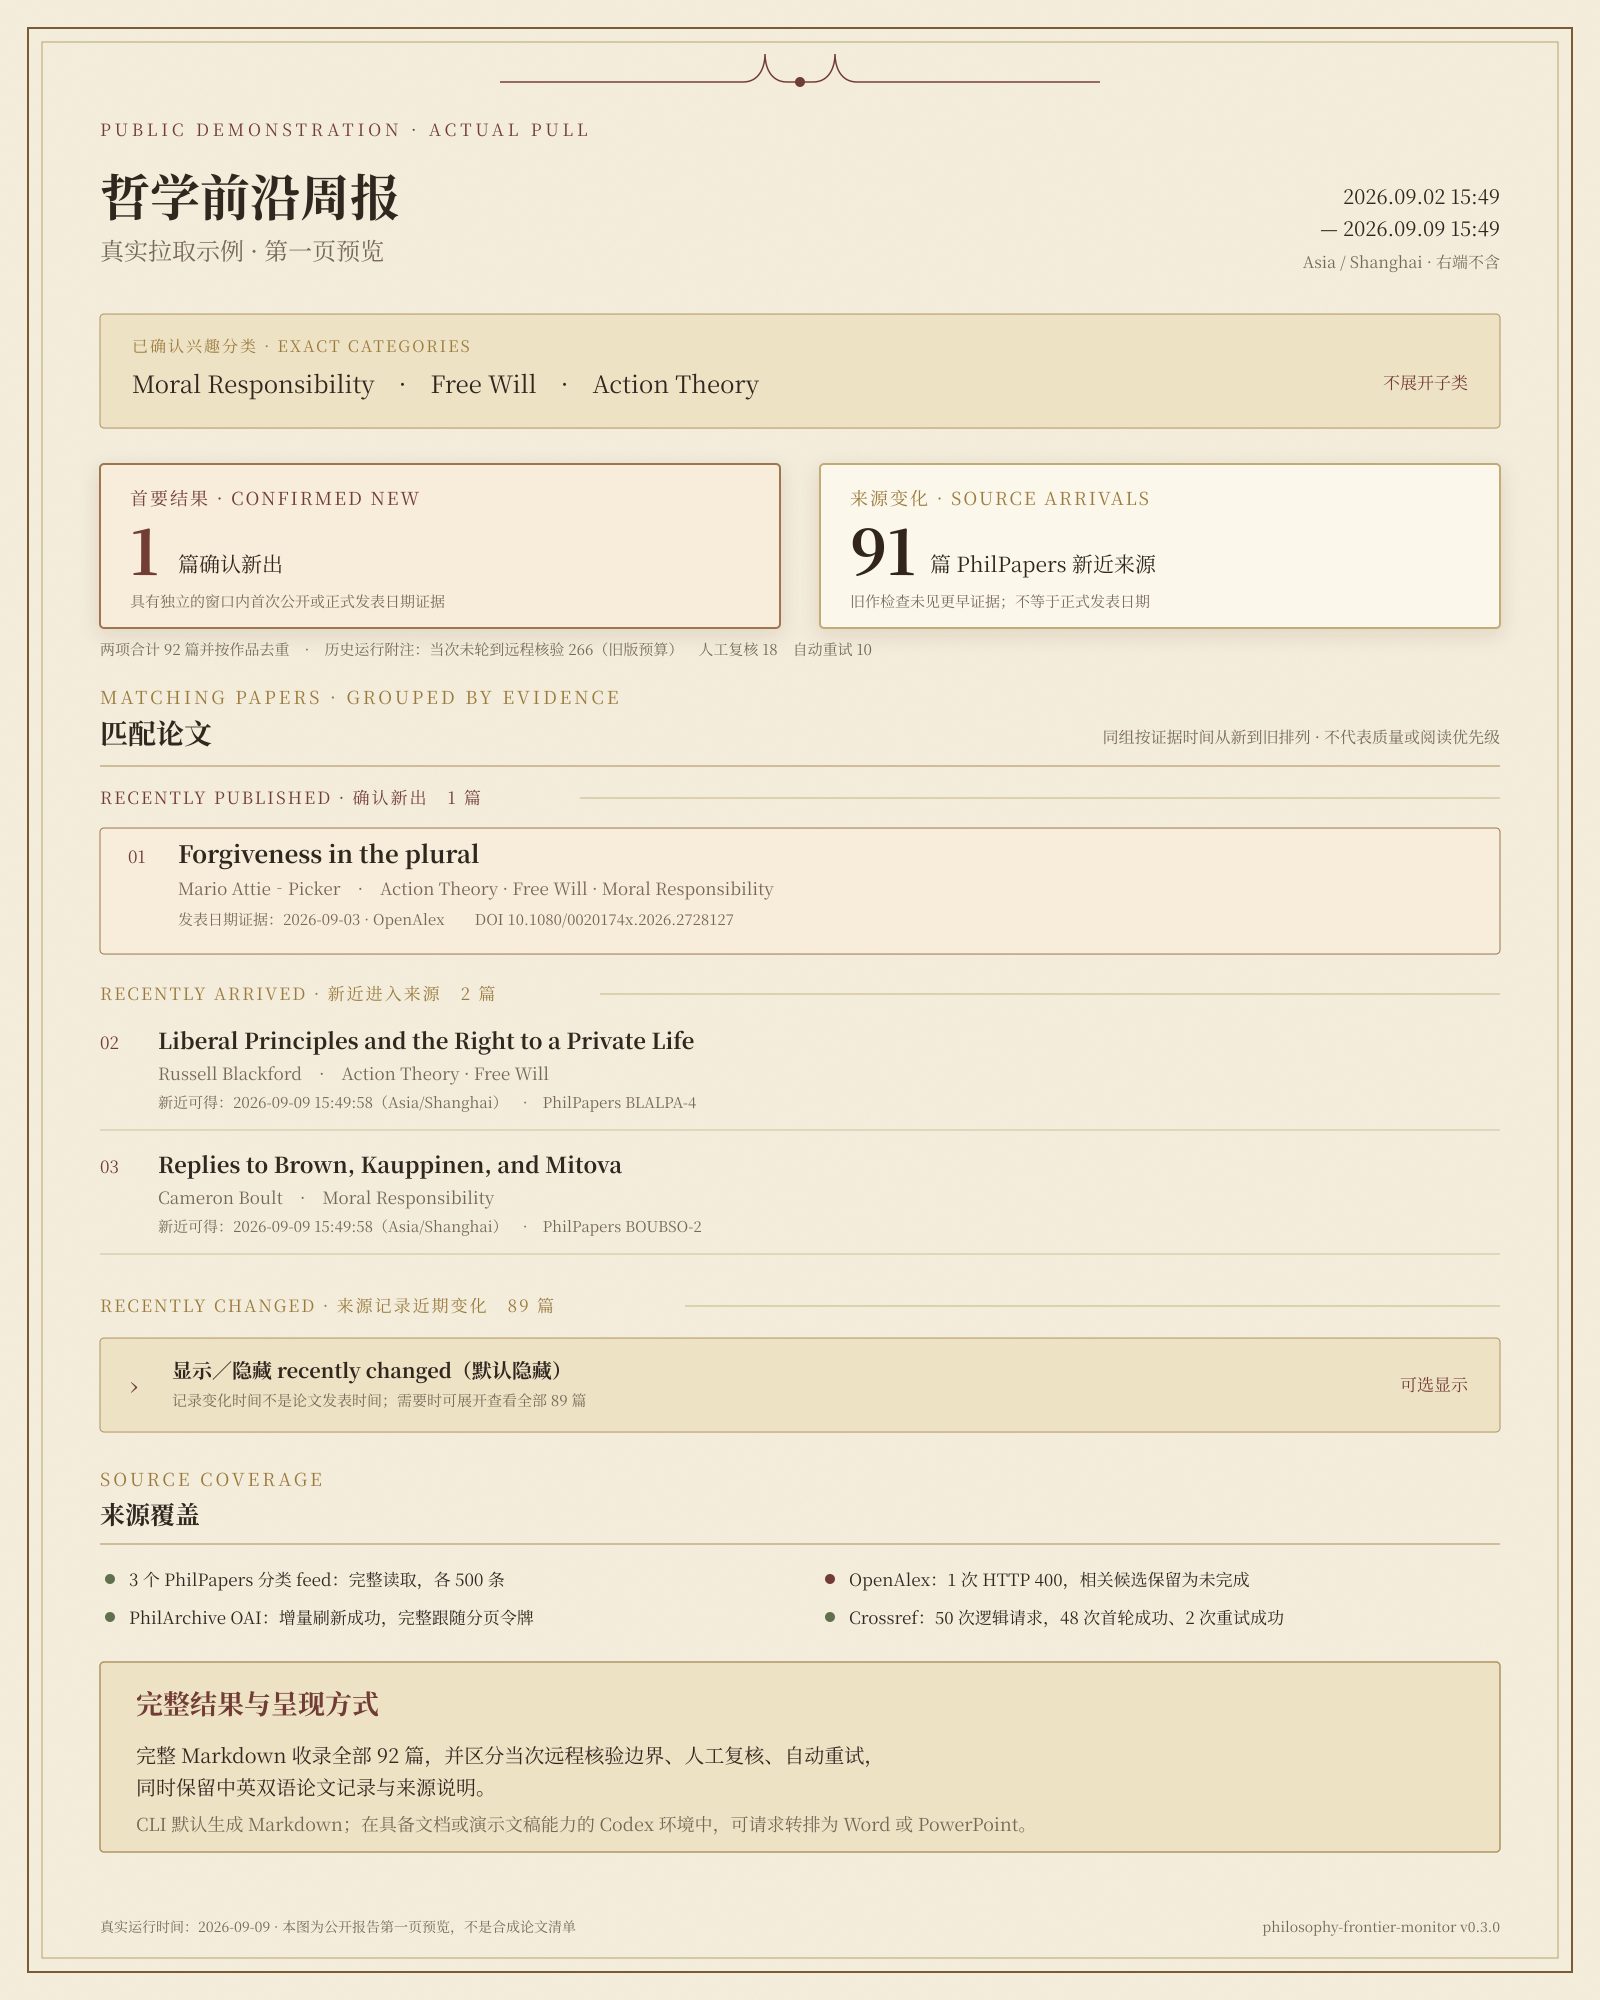
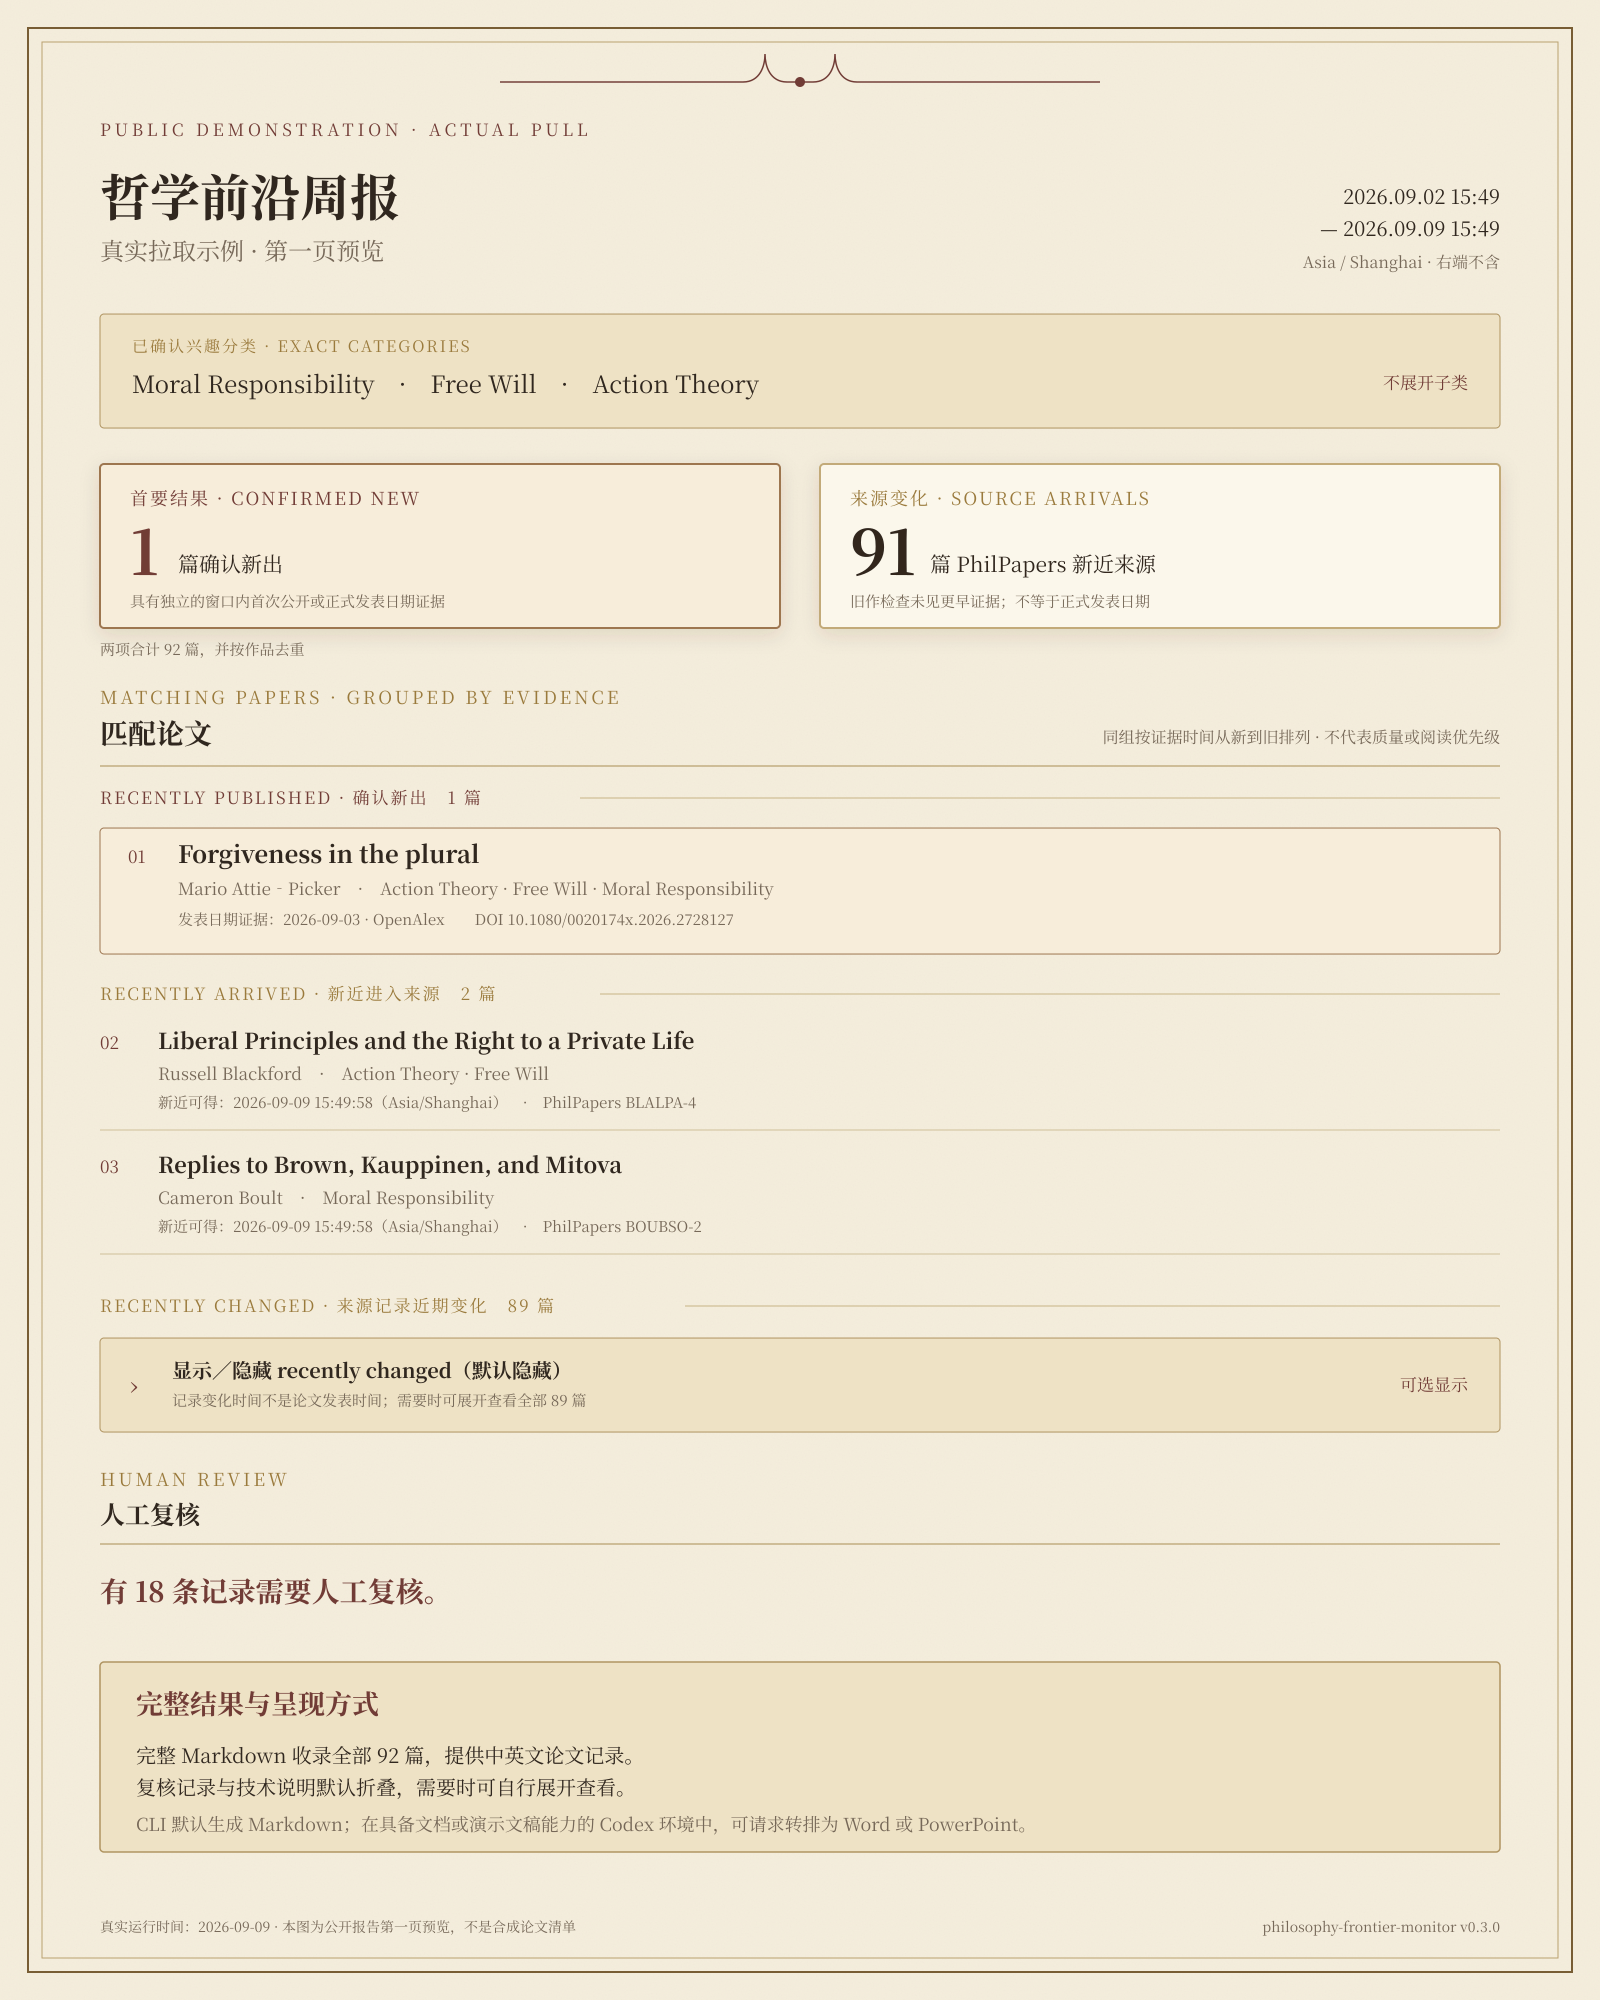
Simplify public demo review notice and make technical details optional

diff --git a/examples/public-demo-weekly-report.md b/examples/public-demo-weekly-report.md
@@ -9,8 +9,6 @@ taxonomy 快照：`philpapers:20260905T130303Z:e2538657e2ce`
 
 本报告由用户主动请求生成，独立于正式周报。它不读取周报通知历史，也不写入或推进基线、重试队列、运行历史和 feed 检查点；同一篇论文以后再次出现在周报中属于正常现象。
 
-本次启用了 PhilArchive OAI 增量筛选：完全没有 feed 时间和书目年份的记录只有在同一 `/rec/` 记录于窗口内发生变化时才继续核验。OAI 只覆盖开放记录，因此非开放且完全无日期的 PhilPapers 记录可能不在本次即时报告中；这不是永久的旧作判断。
-
 ## 本次结果概览
 
 ### 确认新出：1 篇
@@ -21,7 +19,7 @@ taxonomy 快照：`philpapers:20260905T130303Z:e2538657e2ce`
 
 这些记录新近进入所选分类对应的 PhilPapers／PhilArchive 来源变化集合，而且当次旧作检查没有发现更早作品证据；这不等于已经取得正式发表日期。
 
-以上两项由下方 92 条真实拉取记录的 `freshness_status`／`freshness_event` 逐项统计，不增补论文，也不是模型合成的数量。本次未轮到远程核验的候选、人工复核、自动重试和来源故障仍在报告后部完整披露。
+以上两项由下方 92 条真实拉取记录的 `freshness_status`／`freshness_event` 逐项统计，不增补论文，也不是模型合成的数量。另有 **18 条记录需要人工复核**；复核记录与技术说明可在报告后部自行展开查看。
 
 ## 匹配论文（92）
 
@@ -1334,6 +1332,15 @@ taxonomy 快照：`philpapers:20260905T130303Z:e2538657e2ce`
 
 </details>
 
+## 人工复核
+
+有 **18 条记录需要人工复核**。
+
+<details>
+<summary>查看复核记录与技术说明（可选）</summary>
+
+本次启用了 PhilArchive OAI 增量筛选：完全没有 feed 时间和书目年份的记录只有在同一 `/rec/` 记录于窗口内发生变化时才继续核验。OAI 只覆盖开放记录，因此非开放且完全无日期的 PhilPapers 记录可能不在本次即时报告中；这不是永久的旧作判断。
+
 ## 数据源覆盖
 
 - `philpapers-rss:4590`：success；检查时间 `2026-09-09T07:49:58.644162+00:00`；分类 feed 完整读取；条目数 500
@@ -1406,6 +1413,8 @@ taxonomy 快照：`philpapers:20260905T130303Z:e2538657e2ce`
 
 本报告只能反映运行时成功返回的已配置 PhilPapers 分类 feed，以及当时能够取得的外部书目元数据。尚未被来源收录、来源更新延迟或关键元数据缺失的作品可能延后出现；系统会披露失败来源和未完成核验数量，但不承诺对全球哲学新作的穷尽覆盖。
 
+</details>
+
 ---
 
 # Philosophy Frontier On-Demand Report
@@ -1419,8 +1428,6 @@ This report includes papers only when they are confirmed as new within the windo
 
 This report was generated by an explicit user request and is independent of the formal weekly report. It neither reads weekly notification history nor writes or advances the baseline, retry queue, run history, or feed checkpoints. It is therefore normal for the same paper to appear in a later weekly report.
 
-PhilArchive OAI incremental narrowing was used. Feed records lacking both a timestamp and a bibliographic year continued to verification only when the same `/rec/` record changed within the window. OAI covers open records only, so fully undated non-open PhilPapers records may be absent from this report; this is not a permanent old-work judgment.
-
 ## Results at a glance
 
 ### Confirmed new: 1
@@ -1431,7 +1438,7 @@ This record has independent evidence of first availability or formal publication
 
 These records recently entered the PhilPapers or PhilArchive source-change set for the selected categories, and that run's old-work check found no earlier work evidence. This is not a claim that a formal publication date was obtained.
 
-The two counts were computed item by item from the 92 actual pull records below using their `freshness_status` and `freshness_event`; no paper or count was synthesized. Machine backlog, human review, automatic retry, and source failures remain fully disclosed later in the report.
+The two counts were computed item by item from the 92 actual pull records below using their `freshness_status` and `freshness_event`; no paper or count was synthesized. An additional **18 records require human review**; review records and technical notes can be expanded at the end of this section.
 
 ## Matching papers (92)
 
@@ -2744,6 +2751,15 @@ Ordered newest first by PhilArchive OAI record-change time. A record change mean
 
 </details>
 
+## Human review
+
+**18 records require human review.**
+
+<details>
+<summary>Review records and technical notes (optional)</summary>
+
+PhilArchive OAI incremental narrowing was used. Feed records lacking both a timestamp and a bibliographic year continued to verification only when the same `/rec/` record changed within the window. OAI covers open records only, so fully undated non-open PhilPapers records may be absent from this report; this is not a permanent old-work judgment.
+
 ## Source coverage
 
 - `philpapers-rss:4590`: success; checked at `2026-09-09T07:49:58.644162+00:00`; category feed read completely; 500 entries
@@ -2815,3 +2831,5 @@ A work appears above only when `freshness_status = confirmed_new` (confirmed by 
 ## Source limitations
 
 This report reflects only the configured PhilPapers category feeds that returned successfully at run time and the external bibliographic metadata then available. Works absent from a source, delayed by source updates, or missing critical metadata may appear later. Failed sources and unfinished verification are disclosed, but the system does not claim exhaustive coverage of all new philosophy papers worldwide.
+
+</details>

diff --git a/README.en.md b/README.en.md
@@ -42,18 +42,11 @@ and **recently changed** (89), in that order. Each group is ordered newest first
 appropriate to its meaning and separated by a rule. Recently changed is collapsed by default, but
 the report always leaves a visible show/hide control.
 
-Coverage qualifications remain visible without leading the page. This historical example predates
-the date-evidence-insufficient set: 266 candidates did not reach remote verification under that
-run's older per-item budget. This describes one run boundary, not a persistent 266-item backlog.
-The current version places qualifying fully undated records in the separate private hashed set, so
-they do not repeatedly enter this count. That historical run also had 18 human-review cases and 10
-automatic-retry cases. One OpenAlex HTTP 400 remains visible in source coverage, so the example does
-not claim complete coverage. The image shows page one: the confirmed publication and two source
-arrivals appear first, followed by the collapsed record-change group; source coverage immediately
-follows the complete matching-paper block. The
-[complete Markdown report](examples/public-demo-weekly-report.md) contains all 92 papers, source
-status, unfinished-verification disclosures, and Chinese and English sections generated from the
-same result set.
+An additional **18 records require human review**.
+
+The image shows the report's first page. The
+[complete Markdown report](examples/public-demo-weekly-report.md) contains all 92 papers in Chinese
+and English. Review records and technical notes can be expanded there if the reader wants details.
 
 ![Classical ivory first-page preview of a report generated from three real PhilPapers categories](assets/demo/public-demo-weekly-report-2026-09-09.png)
 
@@ -98,6 +91,16 @@ first weekly report. Do not ask me to paste credentials into the conversation.
 The current application release is **v0.3.0**; the internal evidence-pipeline version is **0.6.0**.
 Formal real-machine acceptance has been completed on Windows. macOS and Linux paths are supported,
 but have not yet received equivalent real scheduled-run validation.
+
+<a id="technical-update-2026-09-20"></a>
+
+## Technical update: human-review notice in the public example (2026-09-20)
+
+The public example's coverage note now states only that 18 records require human review. Both
+README pages and the preview image reflect this change. Review details and technical notes in the
+full example are collapsed by default and can be expanded voluntarily; the original paper records
+and verification facts are preserved. This documentation and presentation update includes checks
+of paper content, collapsible sections, and links, plus a rendered-image review.
 
 <a id="technical-update-2026-09-19"></a>
 

diff --git a/README.md b/README.md
@@ -36,14 +36,10 @@
 **recently changed**（89 篇）：每组按与其语义相符的证据时间从新到旧排列，组间有清楚的分割线；
 `recently changed` 默认折叠，但报告中始终保留可见的显示／隐藏开关。
 
-覆盖说明仍如实保留，但不抢占结果首位：这份历史示例产生于日期证据不足集合建立前，当次有 266 条
-候选因旧版逐篇查询预算而未轮到远程核验；这只是当次运行边界，不表示当前版本保有 266 条跨次
-积压。当前版本会把符合条件的完全无日期记录单列到私人散列集合，不再让它们反复进入这一数字。
-当次另有 18 条人工复核项、10 条等待自动重试项，OpenAlex 的一次 HTTP 400 也保留在来源覆盖中，
-因此这份历史示例不声称完整覆盖。下图呈现报告第一页：先显示确认新出与新近进入来源的真实记录，
-再显示默认折叠的来源记录变化组；来源覆盖紧跟整个匹配论文板块。
-[完整 Markdown](examples/public-demo-weekly-report.md)收录全部 92 篇、来源状态、未完成核验说明以及
-同一结果集的中英文版本。
+另有 **18 条记录需要人工复核**。
+
+下图呈现报告第一页。[完整 Markdown](examples/public-demo-weekly-report.md)收录全部 92 篇的
+中英文记录；需要了解更多时，可自行展开其中的复核记录与技术说明。
 
 ![三个真实 PhilPapers 标签生成的古典象牙白周报第一页](assets/demo/public-demo-weekly-report-2026-09-09.png)
 
@@ -78,6 +74,14 @@ $skill-installer 请从 https://github.com/AsahinaMafuyu0127/philosophy-frontier
 
 当前应用版本为 **v0.3.0**；内部证据管线版本为 **0.6.0**。正式实机验收在 Windows 上完成；
 macOS／Linux 路径已经兼容，但尚未取得同等的真实定时运行验证。
+
+<a id="technical-update-2026-09-20"></a>
+
+## 技术更新：公开示例的人工复核提示（2026-09-20）
+
+公开示例的覆盖说明现在只显示“有 18 条记录需要人工复核”，中英文介绍页与预览图同步调整。
+完整示例的复核明细和技术说明默认折叠，读者可自行展开；原有论文记录及核验事实保留。
+本次为文档与展示更新，已核对论文内容、折叠结构和链接，并重新渲染检查预览图。
 
 <a id="technical-update-2026-09-19"></a>
 

diff --git a/CONTRIBUTING.md b/CONTRIBUTING.md
@@ -23,6 +23,10 @@ feed 分类成员关系匹配，允许按可用引用量排序，但不得将引
 
 交付前检查网页技术更新与最终改动范围一致，再执行适合此次改动的检查和发布检查。
 
+介绍页公开示例及预览图的覆盖说明只展示需要人工复核的数量。请求边界、自动重试、接口错误
+及来源处理细节保留在可选展开的技术说明中，不作为读者默认必须理解的概念。中英文示例和
+SVG／PNG 预览须同步；调整呈现不能修改真实论文记录或原始核验事实。
+
 开发环境使用 Python 3.12 与 `uv.lock`。验证命令：
 
 ```powershell

diff --git a/CHANGELOG.md b/CHANGELOG.md
@@ -4,6 +4,9 @@
 
 ## Unreleased
 
+- 2026-09-20：中英文介绍页的公开示例及预览图仅提示需要人工复核的数量；完整示例将复核
+  明细与技术说明改为默认折叠，保留原始事实供自愿查阅，并同步 SVG 与 PNG。
+
 - 为中英文仓库网页补充 2026-09-19 的兴趣论文检索与当地时间调度技术更新；新增根目录
   `AGENTS.md`，并在贡献与发布规则中要求每次项目更新同步维护中英文网页技术更新和变更记录。
 
